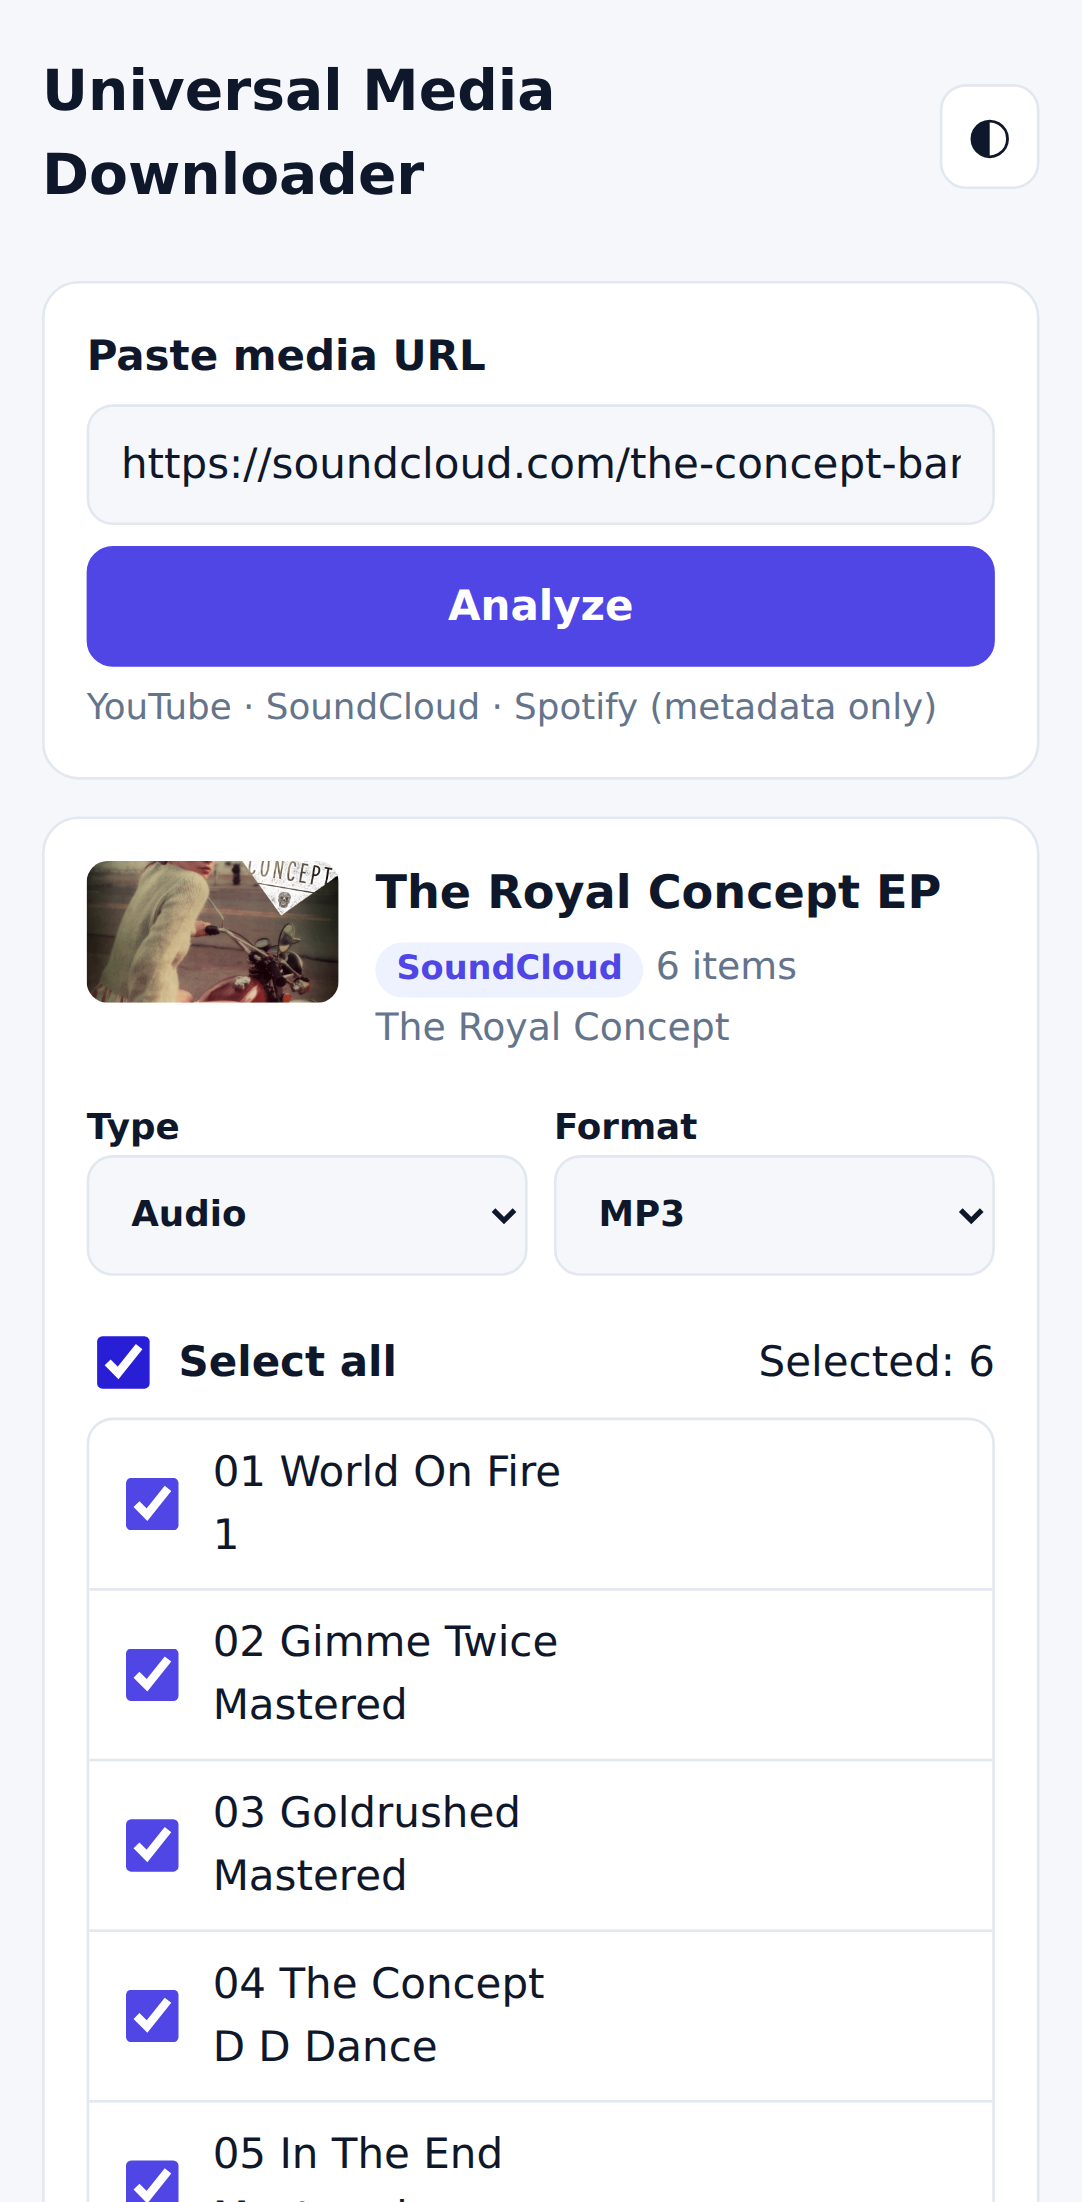
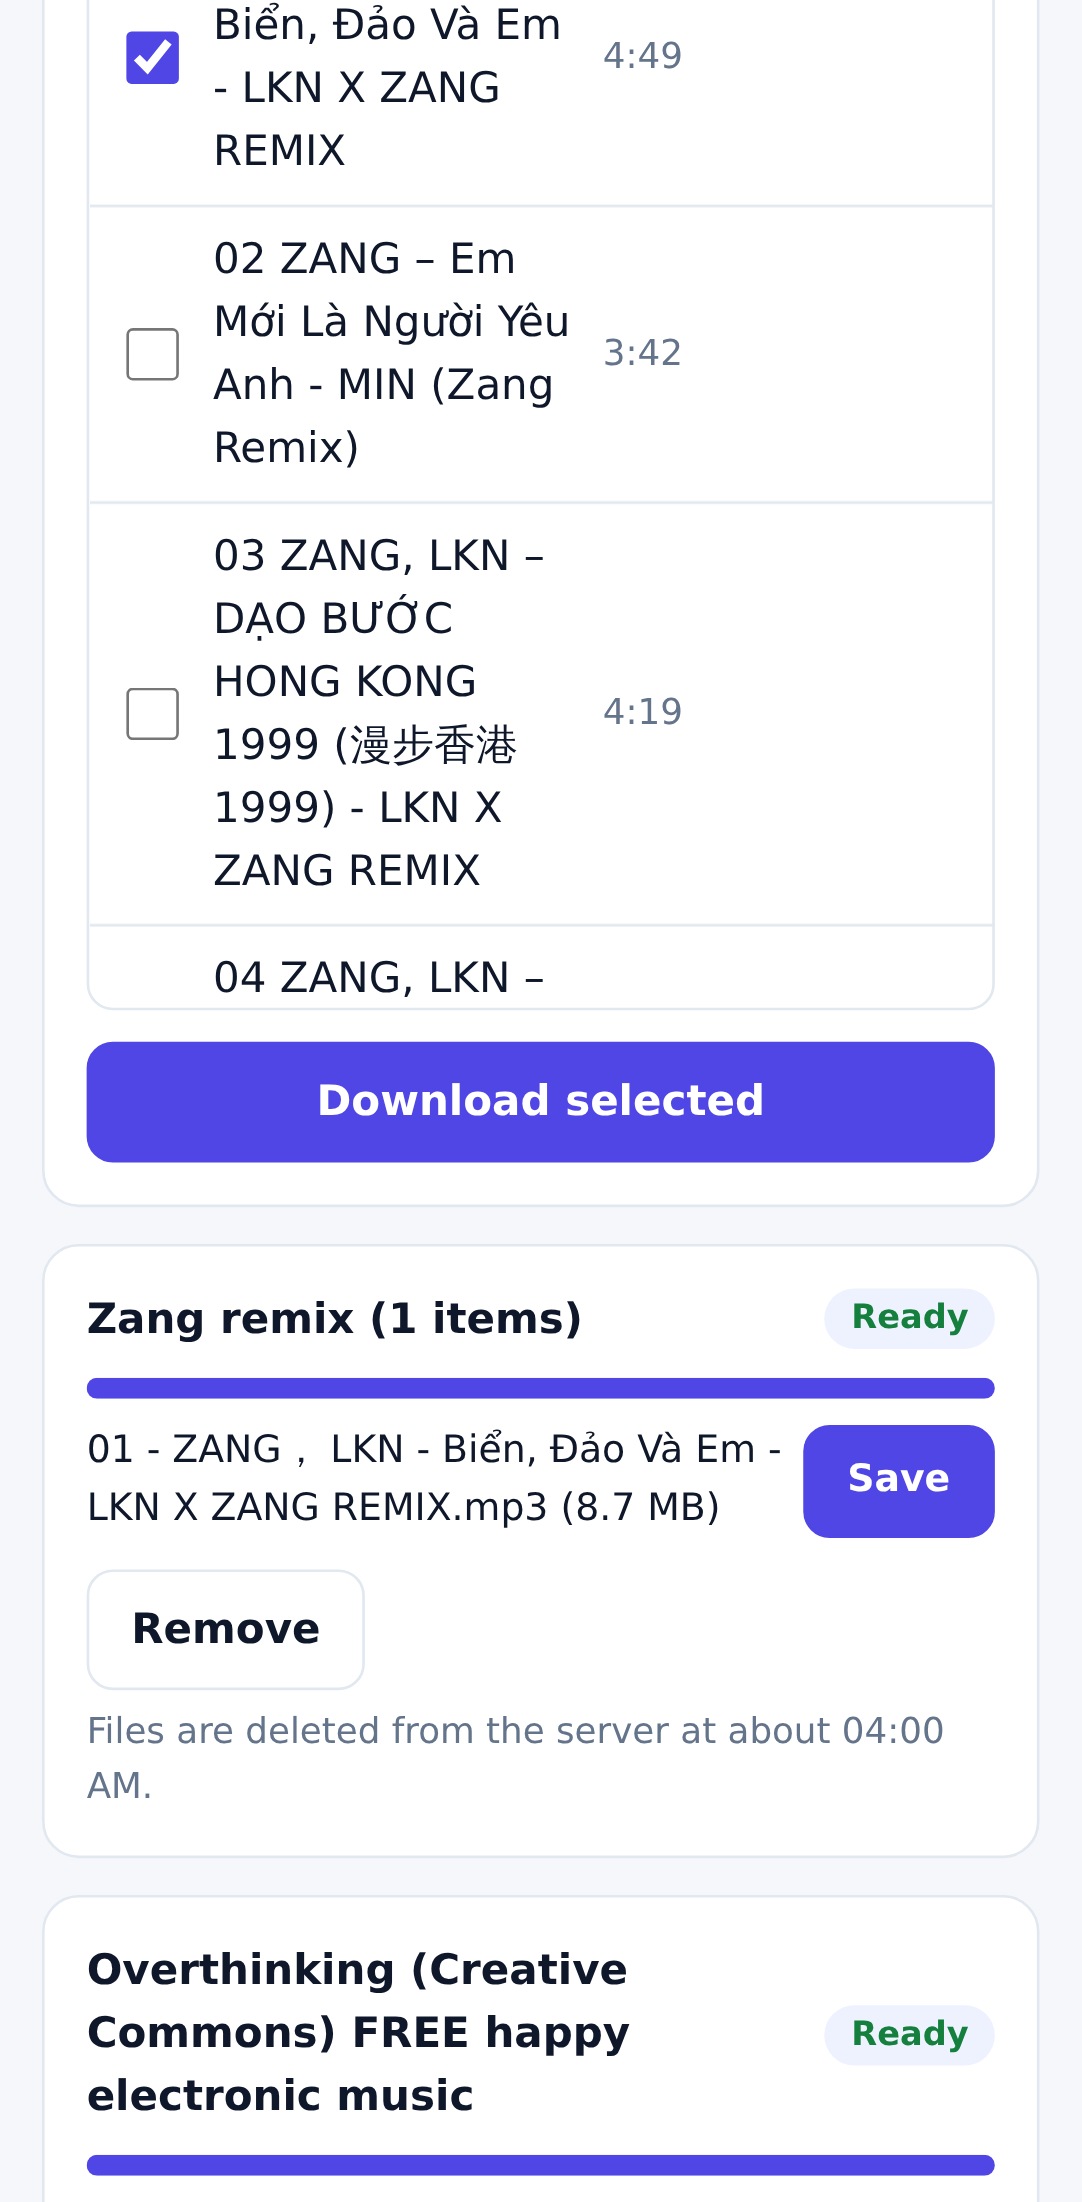
docs: document share-link resolution, input detection and availability

diff --git a/README.md b/README.md
@@ -18,8 +18,8 @@ Open the website, paste a URL, pick a format, download. No account, no install, 
 
 | Source | Status | Notes |
 |---|---|---|
-| SoundCloud track | **SUPPORTED** | Public tracks. MP3 / M4A / Opus / FLAC / original. |
-| SoundCloud set / playlist | **SUPPORTED** | Select items, numbered files, ZIP. Go+ (subscription-only) tracks are not available. |
+| SoundCloud track | **SUPPORTED** | Public tracks via `soundcloud.com`, `m.soundcloud.com` or `on.soundcloud.com` share links. MP3 / M4A / Opus / FLAC / original. |
+| SoundCloud set / playlist | **SUPPORTED** | Share links resolved automatically. Every item listed with title, artist, duration and artwork; Go+ / region-blocked items are shown as unavailable and skipped instead of failing the playlist. Numbered files, ZIP. |
 | YouTube video / Shorts | **PARTIAL** | Works locally and from residential IPs. From the cloud server YouTube often answers *"Sign in to confirm you're not a bot"*; this service does not use cookies, accounts or bot-check workarounds, so such videos fail with a clear message. |
 | YouTube playlist / channel | **PARTIAL** | Listing works; downloading each item is subject to the same bot check. Channel URLs use the *Videos* tab. |
 | Spotify track / album / playlist | **PARTIAL (metadata only)** | Title, artists, artwork and track list from Spotify's public embed. "Find source" searches SoundCloud and YouTube; you confirm a candidate and the file comes **from that source**, labelled as such. |
@@ -77,6 +77,16 @@ Why this stack (checked October 2026):
   Cloud Run (usage-based / trial plans with billing). GitHub Actions is not a web server.
 - One process, in-memory queue: no Redis, database or message broker is needed at this scale.
 
+Input handling: the page extracts the first http(s) URL from pasted text (quotes and trailing punctuation
+removed, query strings such as YouTube `list=` kept), shows a platform/type guess immediately and analyzes
+automatically after a 400 ms pause (previous requests are aborted). The server repeats the normalization
+and is the final authority.
+
+Share links (`on.soundcloud.com`) are resolved on the server before detection: HEAD requests hop by hop
+(max 5 hops, 10 s timeout), each connection pinned to an IP that was checked to be public (no second DNS
+lookup, so no DNS rebinding), and every `Location` re-validated against the host allowlist. Share-tracking
+parameters are dropped. yt-dlp then receives the canonical URL.
+
 Job lifecycle: `queued → downloading → processing / merging → zipping → ready | failed`.
 The browser polls `GET /api/jobs/{id}` every 1.5 s.
 
@@ -85,10 +95,10 @@ The browser polls `GET /api/jobs/{id}` every 1.5 s.
 | Method | Path | Purpose |
 |---|---|---|
 | GET | `/api/health` | Status, tool versions, public limits |
-| POST | `/api/analyze` `{url}` | Metadata, formats, approximate sizes, playlist items |
+| POST | `/api/analyze` `{url}` | `platform`, `media_type` (video / shorts / track / playlist / album / channel / profile), `original_url`, `resolved_url`, metadata, formats, sizes, `item_count`, `available_count`, `unavailable_count`, items |
 | POST | `/api/resolve` `{title, artist}` | Spotify resolver: candidate public sources |
 | POST | `/api/jobs` `{url, mode, format, quality, items?, playlist_title?}` | Start a job |
-| GET | `/api/jobs/{id}` | Status and progress |
+| GET | `/api/jobs/{id}` | Status, progress, `counts` (ready / failed / skipped) |
 | GET | `/api/jobs/{id}/files/{index}` | Download one file |
 | GET | `/api/jobs/{id}/zip` | Download all ready files as ZIP |
 | DELETE | `/api/jobs/{id}` | Cancel and delete files |
@@ -98,7 +108,7 @@ Job IDs are 128-bit random tokens; knowing the ID is what grants access to a job
 ## Security
 
 - Only `http`/`https`; no credentials in URLs; no custom ports; max URL length 2048.
-- **Exact host allowlist** (YouTube, SoundCloud, open.spotify.com). DNS is resolved and every address
+- **Exact host allowlist** (YouTube, SoundCloud, open.spotify.com; `api-v2.soundcloud.com` only for `/tracks/<id>`). DNS is resolved and every address
   must be public: loopback (127.0.0.0/8, ::1), RFC1918, CGNAT, link-local (incl. 169.254.169.254
   metadata), ULA (fc00::/7), multicast and IPv4-mapped variants are rejected.
 - yt-dlp runs with `--ignore-config` and `--use-extractors` limited to YouTube/SoundCloud extractors,
@@ -209,7 +219,8 @@ If you deploy under another domain, update `ALLOWED_ORIGINS` on Render.
 - Single instance, in-memory state: not horizontally scalable without adding shared storage.
 - Free instance has little CPU: MP3/Opus conversion of long items is slow; MP4/M4A at source codec is fastest.
 - Render free bandwidth is limited per month; heavy use will suspend the service until the next cycle.
-- SoundCloud playlist titles in the selection list come from URL slugs until the item is downloaded.
+- SoundCloud set item metadata relies on a small patch of yt-dlp internals (`backend/app/ytdlp_cli.py`); if a yt-dlp update breaks it, listings fall back to bare URLs but downloads keep working.
+- SoundCloud Go+ / region availability depends on where the server runs (the Render region may differ from yours).
 - Spotify metadata comes from the public embed page, which may change without notice.
 - Spotify short links (`spotify.link`) are not accepted; use the `open.spotify.com` URL.
 
